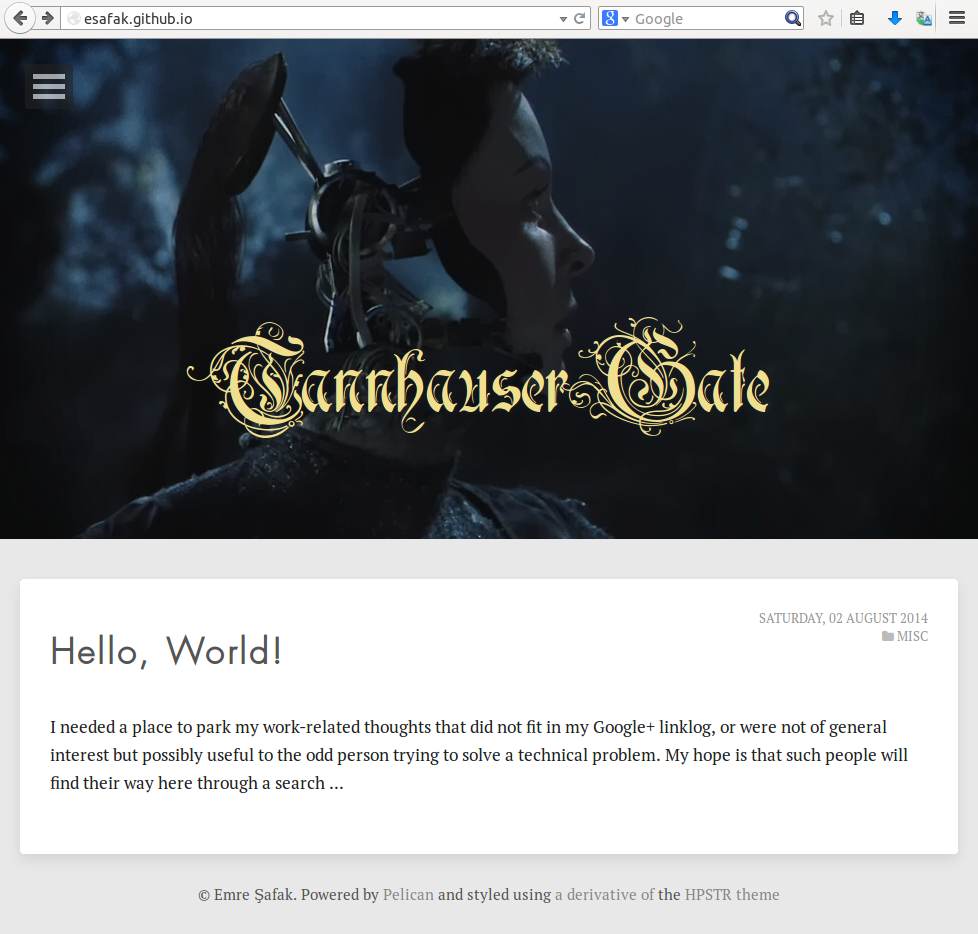
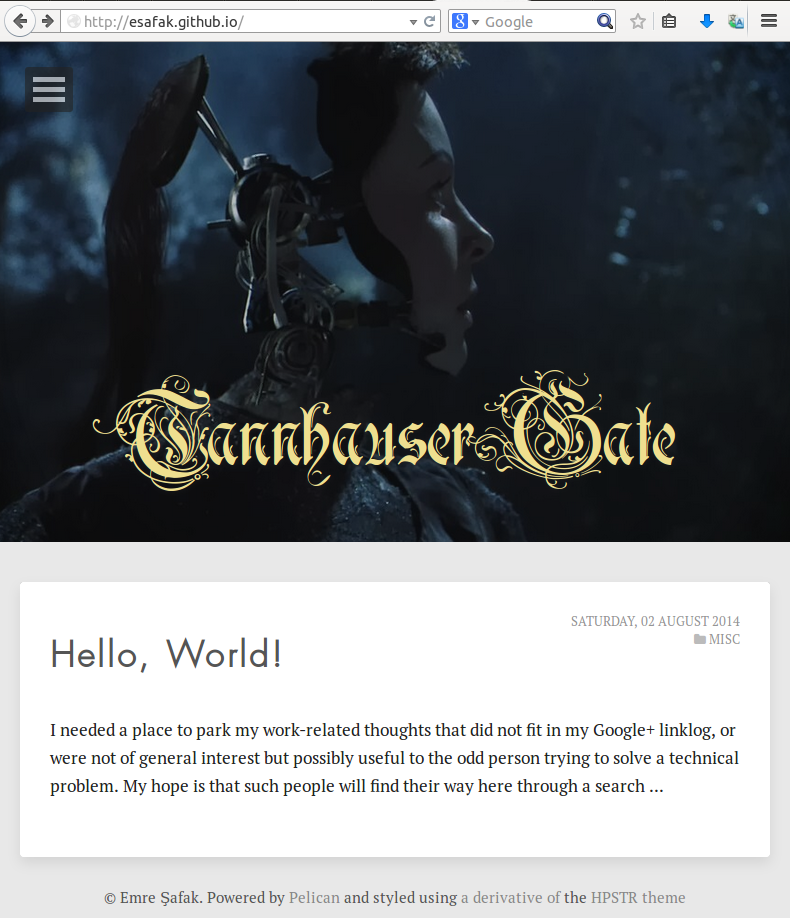
changed the headline font and added some sassy SASS to load arbitrary lists of local fonts

diff --git a/static/sass/_settings.scss b/static/sass/_settings.scss
@@ -19,12 +19,12 @@ $info         : #308cbc;
 // Typography
 // --------------------------------------------------
 
-$google-fonts: "Titillium Web", "PT Serif";
-$local-fonts: "Rothenburg Decorative";
-$local-font-files: '/theme/fonts/rothenbg.woff';
+$google-fonts: "PT Serif";
+$local-fonts: "Rothenburg Decorative", "SciFly";
+$local-font-files: 'rothenbg.woff', 'SciFly-Sans.woff';
 $splash-font: "Rothenburg Decorative";
 $base-font: 'PT Serif', 'Hoefler Text', serif;
-$heading-font: 'Futura LT Pro Light', 'Futura', "Titillium Web", 'Helvetica Neue', sans-serif;
+$heading-font: 'SciFly', 'Futura LT Pro Light', 'Futura', 'Helvetica Neue', sans-serif;
 // HPSTR's default heading font is 'Lato', from Google
 $caption-font: $base-font;
 $code-font: monospace;

diff --git a/templates/base.html b/templates/base.html
@@ -22,8 +22,11 @@
     <meta property="og:title" content="{{SITENAME}}" />
     <meta property="og:url" content="{{SITEURL}}" />
     <meta property="og:image" content="{{AVATAR}}" />    
+    
     {% if SITESUBTITLE %}
-    <meta property="og:description" content="{{SITESUBTITLE}}">
+    <meta property="og:description" content="{{SITESUBTITLE}}"/>
+    {% elif DESCRIPTION %}
+    <meta property="og:description" content="{{DESCRIPTION}}"/>
     {% endif %}
 
     {% endblock %}

diff --git a/static/sass/main.scss b/static/sass/main.scss
@@ -25,7 +25,9 @@
 @import "partials/typography";
 @import "modules/web-fonts";
 @include web-fonts($google-fonts);
-@include font-face($local-fonts, font-files($local-font-files));
+@each $zipped in zip($local-fonts, $local-font-files){
+	@include font-face(nth($zipped, 1), font-files(nth($zipped, 2)));
+}
 
 // Code syntax highlighting
 @import "partials/pygments";

diff --git a/static/sass/partials/_page.scss b/static/sass/partials/_page.scss
@@ -77,7 +77,7 @@ body {
     }
     h1 {
         margin: 10px;
-        padding-top: 300px;
+        padding-top: 350px;
         font-family: $splash-font;
         font-weight: 400;
         font-size: 5em;

diff --git a/config.rb b/config.rb
@@ -1,1 +1,3 @@
 require 'compass-h5bp'
+
+fonts_dir='static/fonts'
